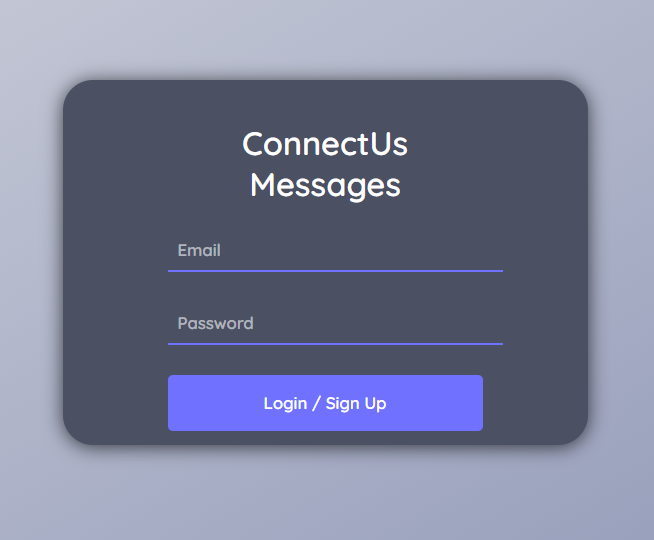
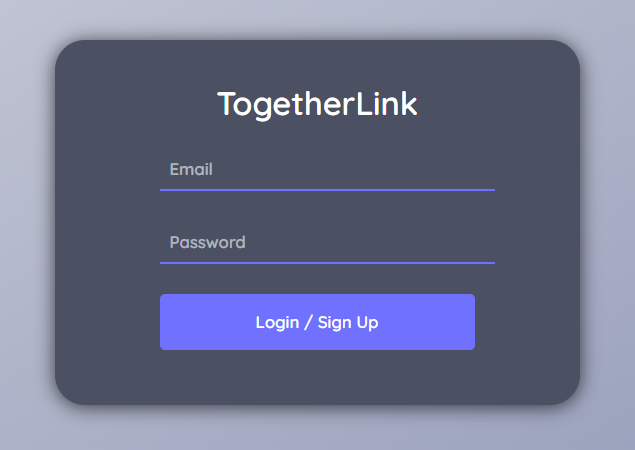
Changed Name to TogetherLink

Changed region(s): [[0.0598, 0.0622, 0.9276, 0.9333], [0.3291, 0.1867, 0.6583, 0.3733]]

diff --git a/pages/index.js b/pages/index.js
@@ -29,7 +29,7 @@ export default function Auth() {
     <div className="background">
       <div className="auth-container">
         <form className="auth-form" onSubmit={(e) => onSubmit(e)}>
-          <div className="auth-title">ConnectUs Messages</div>
+          <div className="auth-title">TogetherLink</div>
 
           <div className="input-container">
             <input
